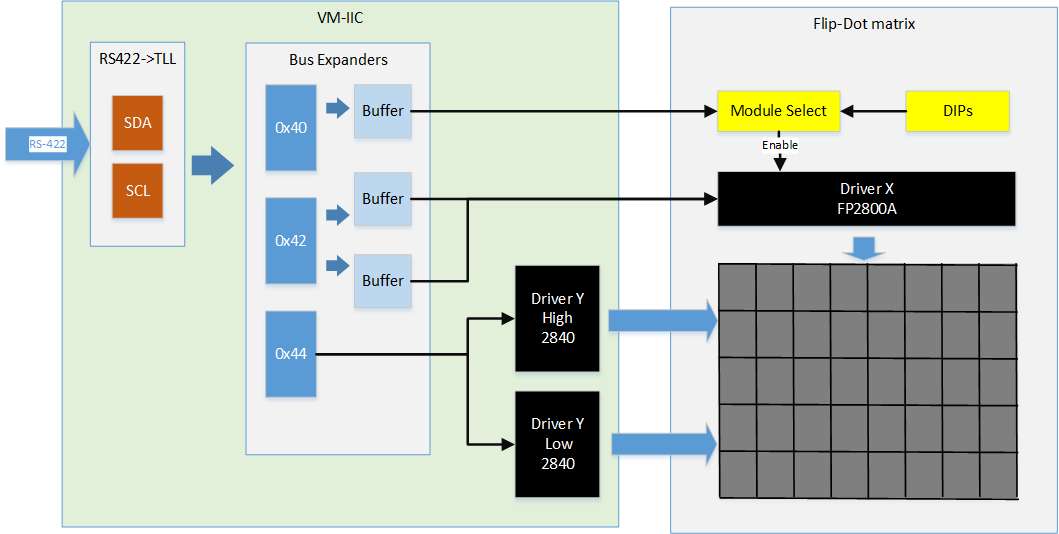
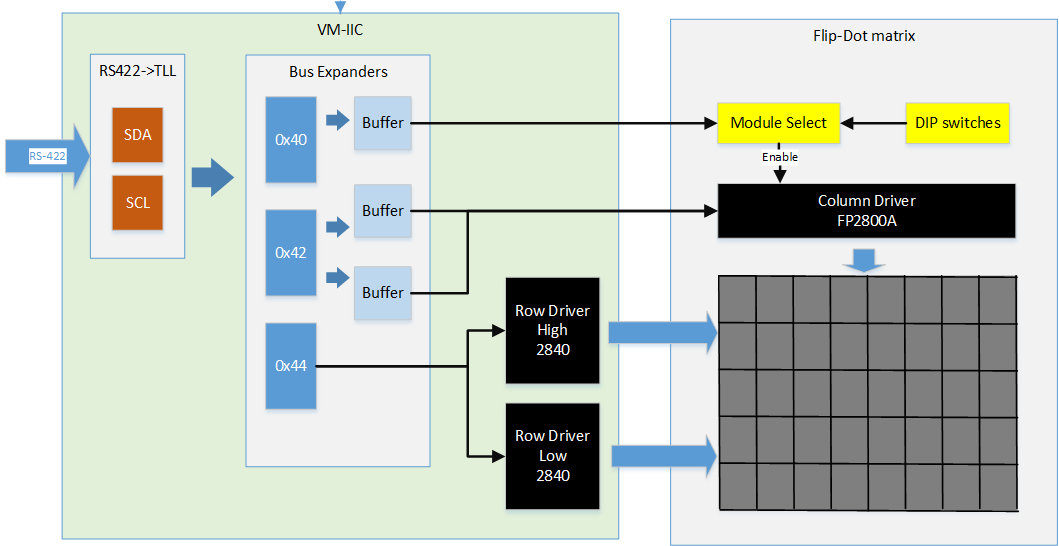
Document I2C bus expansion

diff --git a/Brose_VM_IIC/README.md b/Brose_VM_IIC/README.md
@@ -1,8 +1,45 @@
 # Flip-dot Displays with BROSE VM_IIC Controller
 
+![Fahrtzielnazeige](./_img/rear.jpg?raw=true "Fahrtzielnazeige")
+
+Разъёмы: 
+- 4-х полюсный управление (SDA A/B, SCL A/B)
+- Питание 24V
+- Подсветка 24V
+
 ## Управление
 
 ![Flipdot controller VM-IIC](./_img/vm-iic.png?raw=true "Контроллер VM-IIC")
+
+## Расширение шины через I²C
+
+| Адрес | Бит     | Сигнал            |
+|------ |-------- | ----------------- |
+| 0x40  | 0       | Module Select 8   |
+|       | 1       | Module Select 7   |
+|       | 2       | Module Select 6   |
+|       | 3       | Module Select 5   |
+|       | 4       | Module Select 4   |
+|       | 5       | Module Select 3   |
+|       | 6       | Module Select 2   |
+|       | 7       | Module Select 1   |
+| 0x42  | 0       | -                 |
+|       | 1       | Column - B1       |
+|       | 2       | Column - B0       |
+|       | 3       | Column - A2       |
+|       | 4       | Column - A1       |
+|       | 5       | Column - A0       |
+|       | 6       | Column - DATA     |
+|       | 7       | Row - A2          |
+| 0x44  | 0       | Row - A1          |
+|       | 1       | Row - A0          |
+|       | 2       | Row - B1          |
+|       | 3       | Row - B0          |
+|       | 4       | Row Low - DATA    |
+|       | 5       | Row Low - ENABLE  |
+|       | 6       | Row High - DATA   |
+|       | 7       | Row High - ENABLE |
+
 
 
 ## Интерфейс матрицы
@@ -11,7 +48,7 @@ Brose flip-dot 60 pinout.
 
 ## Выбор матрицы
 
-Хотя контроллер VM_IIC сам оперирует TTL-уровнями, матрица ожидает на входе сингнал размахом до 24V. После защитных диодов и делителей напряжения 24V->5V на блоках резисторов (SOMC1601/1603) сигналы Module Select 1-8 поступают на входы 8-битного компаратора 74HCT688В и сравниваются с выбраным на DIP-ах адресом панели. При совпадении формируется ENABLE для драйвера оси X FP2800A. Матрица с адресом "1":
+Хотя контроллер VM_IIC сам оперирует TTL-уровнями, матрица ожидает на входе сингнал размахом до 24V. После защитных диодов и делителей напряжения 24V->5V на блоках резисторов (SOMC1601/1603) сигналы Module Select 1-8 поступают на входы 8-битного компаратора 74HCT688В и сравниваются с выбраным на DIP-ах адресом панели. При совпадении формируется ENABLE для драйвера оси X FP2800A. Пример матрицы с установленным в "1" адресом:
 
 ![Brose flip-dot interfaces](./_img/matrix_interfaces.jpg?raw=true "Разъёмы")
 
